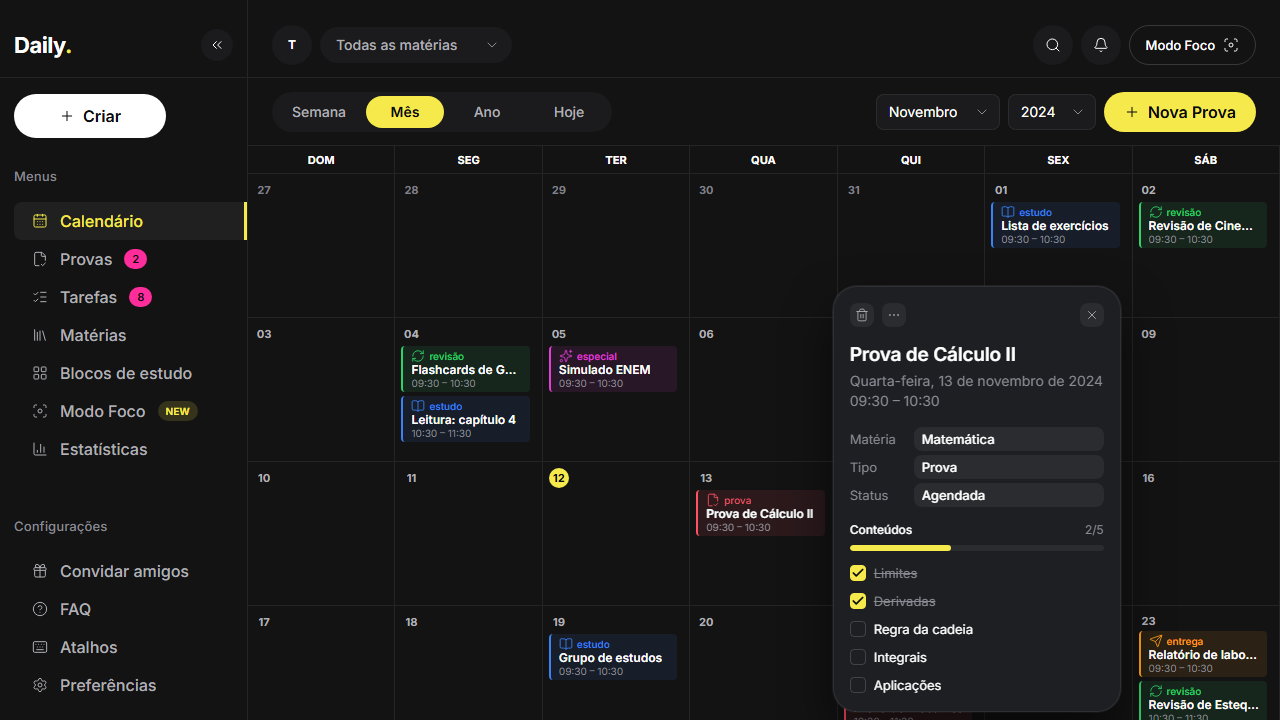
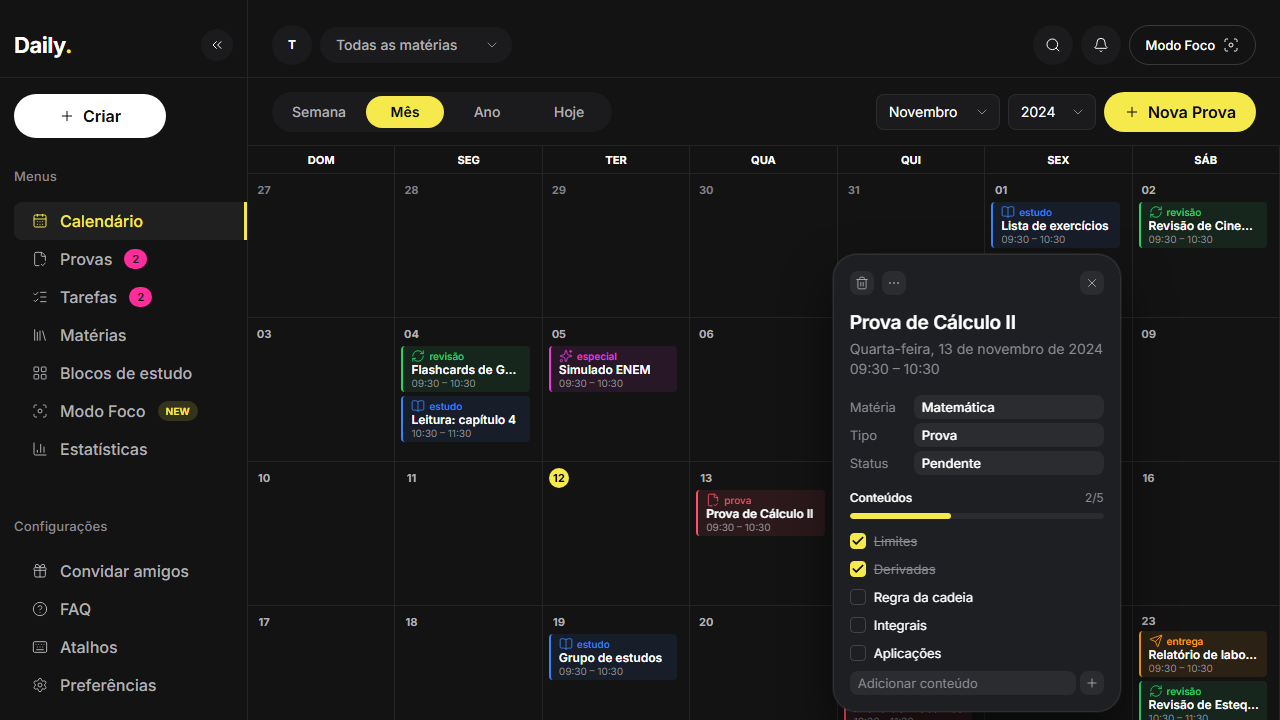
docs: data model, changelog, README, design screenshots and 02 report

Changed region(s): [[0.6562, 0.4278, 0.875, 0.9778], [0.6562, 0.3667, 0.7188, 0.3972], [0.8438, 0.3667, 0.875, 0.3972]]

diff --git a/docs/prompts/02-report.md b/docs/prompts/02-report.md
@@ -1,0 +1,81 @@
+# Relatório 02 — Provas, persistência e páginas
+
+Branch: `feat/exams-and-persistence`.
+
+## O que foi feito
+
+**Camada de dados**
+
+- `packages/shared`: schemas zod de `Subject`, `StudyEvent` (união discriminada: prova com conteúdos, bloco de estudo com `examId`, tarefa/entrega, revisão, especial) e `DataSnapshot` com integridade referencial (ids únicos, matéria e prova existentes).
+- `apps/web/src/lib/data`: interface `DataRepository`/`EntityRepository` (`list/get/create/update/delete`), adaptador `LocalStorageRepository` (chave `daily:v1`, envelope versionado, validação zod ao carregar e gravar, migração v0→v1, backup do último estado válido, cópia do dado corrompido, `StorageWriteError` quando a gravação falha) e `MemoryStorage` (fixture, testes e fallback se o `localStorage` for inacessível).
+- Store Zustand (`createDataStore`) sobre o repositório; nenhum componente toca o `localStorage`. Regras puras em `rules.ts`, `selectors.ts`, `task-filters.ts`, `countdown.ts`, `backup.ts`.
+- Primeiro acesso: empty state no calendário com “Criar prova” e “Carregar dados de exemplo” (os mocks agora só alimentam esse botão, a fixture e testes).
+- Aviso de dado corrompido (“Restaurar último backup” / “Começar do zero”) e de falha ao salvar.
+
+**Criar, editar, excluir**
+
+- Menu “Criar” (Prova, Tarefa, Bloco de estudo, Matéria); “+ Nova Prova” abre o formulário de prova.
+- Modal acessível (foco preso, Esc, labels, erros em pt-BR validados por zod) com matéria nova inline, data, início/término (tarefa tem só o prazo), status, notas, vínculo a prova (blocos) e editor de conteúdos (adicionar, renomear, remover, reordenar).
+- Popover: lixeira (excluir + “Desfazer” 6 s, sem confirmação), menu “…” com Editar e Duplicar, conteúdos persistentes e input para adicionar no fim.
+- Estados pendente/em andamento/concluído/cancelado; concluído e cancelado ficam esmaecidos (`opacity-done`) e com título riscado.
+- Clique em dia vazio (ou no número do dia, que virou botão) abre o formulário com a data; “+N mais” abre um popover com a lista completa do dia.
+
+**Páginas:** Provas (abas Próximas/Passadas, contagem regressiva, progresso, editar), Tarefas (criação rápida, filtros Hoje/7 dias/Atrasadas/Concluídas), Matérias (CRUD, paleta fixa, exclusão com escolha de destino), Blocos de estudo (semana agrupada por dia, criação rápida, vínculo opcional), Preferências (exportar/importar JSON com confirmação). Contadores da sidebar reais (provas abertas nos próximos 14 dias; tarefas pendentes ou atrasadas). Estatísticas, Modo Foco, Atalhos, FAQ e Convidar amigos seguem placeholders.
+
+## Decisões
+
+- **Zustand em vez de context + reducer.** O store é um objeto fora do React: pode ser criado sobre qualquer repositório (testei com `MemoryStorage` sem DOM), as ações são chamáveis fora de componentes (`deleteEventWithUndo`) e `useData(seletor)` re-renderiza só quem mudou — com context+reducer cada toggle de conteúdo re-renderizaria toda a árvore. Custo: 1 dependência pequena.
+- **Repositório síncrono.** `localStorage` é síncrono e a UI fica mais simples. Ao trocar por uma API, o contrato (`DataRepository`) terá de virar assíncrono — registrado como limitação.
+- **“Tarefa” é o tipo `entrega`.** Mantém os cinco tipos pedidos e evita uma entidade paralela; o chip continua “entrega” (não mudei o visual). A tarefa rápida tem prazo hoje às 23:59, o que faz os filtros funcionarem.
+- **`subjectId` anulável.** Tarefas e blocos rápidos nascem sem matéria.
+- **Desfazer por snapshot.** Excluir evento/matéria guarda o snapshot anterior e o toast chama `replaceAll`; serve também para a exclusão em cascata de matéria e persiste.
+- **Backup = último estado válido.** Nunca é sobrescrito por um dado corrompido; o dado ilegível vai para `daily:v1:corrupt`.
+- **A fixture usa armazenamento em memória** — nunca lê nem grava os dados reais — e todos os eventos são `pendente` para continuar idêntica à referência.
+- **`+N mais` abre popover** (pedido) em vez de expandir a célula.
+- O e2e do fluxo usa a data real de hoje; a prova é criada “hoje” para sempre aparecer no mês corrente.
+
+## Mudanças no modelo de dados
+
+Ver [`docs/data-model.md`](../data-model.md). Resumo: status `agendada/em-andamento/concluida` → `pendente/em-andamento/concluido/cancelado`; matérias ganham `color`; eventos ganham `notes`; conteúdos ganham `order`; só provas têm `contents`; blocos de estudo ganham `examId`; `subjectId` pode ser `null`. Formato salvo: envelope `daily:v1` (versão 1) com migração a partir da versão 0.
+
+## Tokens e visual
+
+Sem alterar valores existentes. Novos tokens: `--ds-color-danger`, paleta `--ds-color-subject-*` (8 cores), `--ds-opacity-done`, e dimensões de modal, menu, toast, textarea, swatch e página. Sidebar, topbar, grid e chips ficaram idênticos (a captura da fixture não mudou, exceto o novo campo “Adicionar conteúdo” no popover da prova).
+
+## Dependências adicionadas
+
+| Pacote    | Onde       | Justificativa                                                                                                                                  |
+| --------- | ---------- | ---------------------------------------------------------------------------------------------------------------------------------------------- |
+| `zustand` | `apps/web` | Store externo ao React, testável sem DOM e com seletores granulares (~1 kB).                                                                   |
+| `zod`     | `apps/web` | Os formulários validam com o mesmo zod do domínio; antes só `shared` o declarava e o pnpm é estrito. Sem versão nova (já estava no workspace). |
+
+## Testes
+
+- **Unitários (Vitest):** 51 novos no `web` (56 no total) e 2 no `shared` (5 no total): CRUD e persistência do `LocalStorageRepository`; migração v0→v1; versão futura; 5 formas de dado corrompido (original preservado, nada sobrescrito); restauração de backup; falha de gravação; progresso; contagem regressiva (hoje, amanhã, N dias, ontem, passado, virada de mês/ano); exclusão de matéria (sem eventos, sem resolução, apagar, mover, destino inválido); import/export (ida e volta + 8 arquivos inválidos); validação dos formulários em pt-BR; tarefa/bloco rápidos; filtros de tarefas; contadores.
+- **E2E (Playwright):** o de fumaça anterior; o fluxo _criar matéria → prova com 3 conteúdos → calendário → marcar 2 → recarregar → conferir persistência → excluir e desfazer (e recarregar de novo)_; e _dado corrompido não quebra o app_. Todos entram no CI.
+
+## Resultado dos comandos
+
+| Comando          | Resultado                                     |
+| ---------------- | --------------------------------------------- |
+| `pnpm lint`      | passa                                         |
+| `pnpm typecheck` | passa                                         |
+| `pnpm test`      | passa (web 56, shared 5)                      |
+| `pnpm build`     | passa                                         |
+| `pnpm e2e`       | passa (3 testes)                              |
+| CI no GitHub     | roda os mesmos passos; o resultado está no PR |
+
+## O que não foi feito
+
+- Backend, autenticação, notificações e PWA (fora do escopo).
+- Edição inline de um conteúdo já salvo no popover (renomear/remover/reordenar é feito pelo formulário de edição).
+- Visões Semana/Ano, busca, notificações e “Modo Foco” da topbar (continuam visuais).
+- Cor da matéria nos chips do calendário (os chips seguem a cor do tipo, como no design).
+
+## Pendências e riscos
+
+- **Teste manual em outros navegadores:** validei só no Chromium (Playwright). Os inputs `date`/`time` nativos variam por navegador.
+- O `Repository` terá de ser assíncrono quando houver API.
+- Se o armazenamento estourar a cota, o app mostra aviso e mantém os dados em memória; sem compressão nem limpeza automática do backup.
+- Um evento excluído por “Desfazer” volta à posição original apenas porque o snapshot é restaurado inteiro; edições feitas entre a exclusão e o “Desfazer” (dentro de 6 s) são perdidas.
+- Revisar `docs/design/design-system.md` para registrar os novos componentes (modal, menu, toast) — adicionei apenas os tokens.

diff --git a/README.md b/README.md
@@ -35,13 +35,13 @@ O projeto também é um estudo de engenharia de software: monorepo, TypeScript e
 
 O projeto está em desenvolvimento, organizado em marcos.
 
-| Marco                  | Escopo                                                        | Status    |
-| ---------------------- | ------------------------------------------------------------- | --------- |
-| **0. Fundação visual** | Monorepo, design system, calendário mensal com dados mockados | Concluído |
-| **1. Base**            | Login, CRUD de tarefas, matérias, back-end e deploy           | Planejado |
-| **2. Estudos**         | Provas com contagem regressiva, conteúdos, blocos de estudo   | Planejado |
-| **3. Segunda tela**    | Modo Foco, notificações, lembretes, PWA instalável            | Planejado |
-| **4. Acabamento**      | Documentação final, GIFs, post no LinkedIn                    | Planejado |
+| Marco                  | Escopo                                                        | Status       |
+| ---------------------- | ------------------------------------------------------------- | ------------ |
+| **0. Fundação visual** | Monorepo, design system, calendário mensal com dados mockados | Concluído    |
+| **1. Base**            | Dados locais, CRUD, páginas (feito); login, back-end e deploy | Em andamento |
+| **2. Estudos**         | Provas com contagem regressiva, conteúdos, blocos de estudo   | Em andamento |
+| **3. Segunda tela**    | Modo Foco, notificações, lembretes, PWA instalável            | Planejado    |
+| **4. Acabamento**      | Documentação final, GIFs, post no LinkedIn                    | Planejado    |
 
 ## Funcionalidades
 
@@ -55,18 +55,24 @@ O projeto está em desenvolvimento, organizado em marcos.
 - [x] Filtro do calendário por matéria
 - [x] Sidebar recolhível e interface em pt-BR
 - [x] Design system documentado, com tokens centralizados em CSS
+- [x] **Dados salvos no navegador** (`localStorage` versionado, com validação, migração e backup)
+- [x] **Criar, editar, duplicar e excluir** provas, tarefas, blocos de estudo e matérias, com "Desfazer" por 6 s
+- [x] Conteúdos da prova como mini tarefas (adicionar, renomear, remover, reordenar, marcar) com progresso
+- [x] Páginas **Provas** (contagem regressiva), **Tarefas** (filtros e criação rápida), **Matérias** (cores) e **Blocos de estudo** (semana)
+- [x] Estados do evento: pendente, em andamento, concluído e cancelado
+- [x] Clique num dia vazio cria evento; "+N mais" abre a lista completa do dia
+- [x] Exportar e importar dados em JSON (validado, com confirmação)
 
 ### Em planejamento
 
-- [ ] Persistência real (hoje o estado é local e some ao recarregar)
 - [ ] Autenticação (e-mail/senha ou Google)
-- [ ] Criação, edição e exclusão de provas, tarefas e blocos de estudo
+- [ ] Sincronização com back-end
 - [ ] Visões Semana e Ano
 - [ ] Modo Foco para segunda tela
 - [ ] Notificações e lembretes periódicos
 - [ ] PWA instalável (manifest e service worker)
 - [ ] Estatísticas de estudo
-- [ ] Atalhos de teclado e entrada rápida de tarefas
+- [ ] Atalhos de teclado
 
 ## Stack
 
@@ -169,32 +175,35 @@ Cada ciclo fica registrado em [`docs/prompts/`](docs/prompts/) (`NN-prompt.md` e
 
 ## Decisões técnicas
 
-| Decisão                      | Motivo                                            |
-| ---------------------------- | ------------------------------------------------- |
-| Monorepo com pnpm            | Compartilhar tipos e schemas entre front e API    |
-| TypeScript 5.9 fixado        | O `typescript-eslint` ainda não suporta o TS 7    |
-| Mocks relativos à data atual | O calendário nunca aparece vazio, em qualquer mês |
-| Tokens CSS obrigatórios      | Fidelidade visual e manutenção em um único lugar  |
-| PWA em vez de app nativo     | Um código só para "app de PC" e versão online     |
+| Decisão                      | Motivo                                                                                                                       |
+| ---------------------------- | ---------------------------------------------------------------------------------------------------------------------------- |
+| Monorepo com pnpm            | Compartilhar tipos e schemas entre front e API                                                                               |
+| TypeScript 5.9 fixado        | O `typescript-eslint` ainda não suporta o TS 7                                                                               |
+| Mocks relativos à data atual | O calendário nunca aparece vazio, em qualquer mês                                                                            |
+| Tokens CSS obrigatórios      | Fidelidade visual e manutenção em um único lugar                                                                             |
+| PWA em vez de app nativo     | Um código só para "app de PC" e versão online                                                                                |
+| `Repository` + Zustand       | A UI não conhece o `localStorage`; trocar por uma API é trocar o adaptador (veja [`docs/data-model.md`](docs/data-model.md)) |
 
 Decisões maiores serão registradas em `docs/adr/`.
 
 ## Limitações conhecidas
 
-- Os dados são mockados e o estado é local: checklist e exclusões somem ao recarregar
-- "+ Nova Prova", busca, notificações e o menu do popover são apenas visuais
-- Visões Semana e Ano são placeholders
+- Os dados vivem **só neste navegador** (sem conta nem sincronização): limpar os dados do site apaga tudo. Use Preferências → Exportar para guardar uma cópia
+- O `Repository` é síncrono (adequado ao `localStorage`); uma API exigirá torná-lo assíncrono
+- Busca, notificações e o botão "Modo Foco" da topbar ainda são apenas visuais
+- Visões Semana e Ano são placeholders; Estatísticas, Modo Foco, Atalhos, FAQ e Convidar amigos são páginas placeholder
+- Matérias sem cor própria no calendário: os chips usam a cor do **tipo** de evento, e a cor da matéria aparece nas listas
 - Os chips têm ~44 px em vez dos ~56 px da referência: ela equivale a 1440×1080, e em 900 px de altura só assim cabem 2 chips completos mais o "+N mais" (detalhes em [`design-system.md`](docs/design/design-system.md))
 - Em janelas baixas (por exemplo 1280×720) ou meses com 6 semanas, o grid rola verticalmente em vez de encolher as linhas
 - Ainda não há manifest nem service worker (PWA)
 - A comparação com a referência é lado a lado, a olho (sem diff de pixels automatizado)
-- A fixture `?fixture=reference` só existe em desenvolvimento (`pnpm dev`)
+- A fixture `?fixture=reference` só existe em desenvolvimento (`pnpm dev`) e usa dados em memória, sem tocar nos seus dados
 
 ## Roadmap
 
 - [x] **Marco 0:** monorepo, design system e calendário mensal
-- [ ] **Marco 1:** autenticação, API, banco de dados, CRUD e deploy
-- [ ] **Marco 2:** provas com contagem regressiva, conteúdos e blocos de estudo
+- [ ] **Marco 1:** autenticação, API, banco de dados e deploy (CRUD local já feito)
+- [x] **Marco 2 (parte local):** provas com contagem regressiva, conteúdos e blocos de estudo
 - [ ] **Marco 3:** Modo Foco, notificações e PWA instalável
 - [ ] **Marco 4:** acabamento, documentação final e divulgação
 

diff --git a/docs/prompts/02-prompt.md b/docs/prompts/02-prompt.md
@@ -1,0 +1,68 @@
+# Contexto
+
+Projeto Daily (monorepo pnpm, apps/web em React + TS + Vite + Tailwind). Os Prompts 01 e 01.1 entregaram o calendário mensal fiel à referência, com dados mockados. Leia CLAUDE.md, docs/design/design-system.md, docs/prompts/01-report.md e docs/prompts/01.1-report.md antes de começar. Trabalhe numa branch `feat/exams-and-persistence`.
+
+# Objetivo deste prompt (02)
+
+Transformar o Daily em um app usável no dia a dia: dados persistidos no navegador, criação/edição/exclusão de provas, conteúdos (mini tarefas), tarefas, blocos de estudo e matérias, mais contagem regressiva de provas. Continua sem backend.
+
+# Passo 1 — Camada de dados
+
+1. Em packages/shared, defina (zod) as entidades: Matéria (id, nome, cor), Evento base (id, tipo, título, início, fim, matériaId, status, notas) e as especializações: Prova (com lista de Conteúdos: id, título, concluído, ordem), Tarefa, Bloco de estudo. Tipos de evento mantidos: prova, estudo, entrega, revisão, especial.
+2. Crie em apps/web/src/lib/data uma interface `Repository` (list/get/create/update/delete por entidade) e um adaptador `LocalStorageRepository` com: chave versionada (`daily:v1`), validação com zod ao carregar, migração simples por versão e fallback seguro se o dado estiver corrompido (não quebrar o app; avisar o usuário e oferecer restaurar a partir de backup).
+3. Estado da UI com Zustand (ou React context + reducer, se preferir justificar) consumindo o Repository. Nenhum componente acessa localStorage diretamente.
+4. Primeiro acesso: app vazio com estado inicial amigável (empty states), e um botão "Carregar dados de exemplo" que usa os mocks atuais. Os mocks continuam existindo só para esse botão, a fixture `?fixture=reference` e os testes.
+5. Backup: em Preferências, "Exportar dados (JSON)" e "Importar dados (JSON)", com validação zod e confirmação antes de sobrescrever.
+
+# Passo 2 — Criar, editar e excluir
+
+1. Botão "Criar" (sidebar) abre um menu: Prova, Tarefa, Bloco de estudo, Matéria. O botão "+ Nova Prova" abre direto o formulário de prova.
+2. Formulários em modal acessível (foco preso, Esc fecha, labels, mensagens de erro em pt-BR, validação com zod). Campos: título, matéria (com opção de criar nova), data, horário de início e fim, status, notas. Prova: lista de conteúdos editável no próprio formulário (adicionar, renomear, remover, reordenar).
+3. Popover do evento: o menu "..." ganha Editar e Duplicar; a lixeira exclui. Exclusão com toast "Desfazer" por 6 segundos, sem diálogo de confirmação.
+4. Conteúdos da prova no popover: marcar/desmarcar persiste; adicionar conteúdo inline (input no fim da lista); barra de progresso atualiza.
+5. Estados de evento: pendente, em andamento, concluído, cancelado. Chip de evento concluído fica visualmente esmaecido, com título riscado. Use tokens para isso.
+6. Clicar num dia vazio do calendário abre o formulário com a data pré-preenchida.
+
+# Passo 3 — Páginas (substituem os placeholders)
+
+1. Provas: lista de provas futuras ordenadas por data, cada uma com matéria, data, contagem regressiva ("em 3 dias", "amanhã", "hoje às 14h", "há 2 dias" para passadas), progresso dos conteúdos e atalho para editar. Abas: Próximas | Passadas.
+2. Tarefas: lista simples com filtros (Hoje, Próximos 7 dias, Atrasadas, Concluídas), checkbox para concluir, criação rápida no topo (digitar título + Enter).
+3. Matérias: CRUD de matérias com seletor de cor (paleta fixa nos tokens). Excluir matéria com eventos associados exige escolher: apagar os eventos ou movê-los para outra matéria.
+4. Blocos de estudo: lista da semana atual agrupada por dia, com criação rápida e vínculo opcional a uma prova/matéria.
+5. Os contadores da sidebar (Provas, Tarefas) passam a refletir os dados reais: provas nos próximos 14 dias e tarefas pendentes/atrasadas.
+6. Estatísticas, Modo Foco e Atalhos continuam placeholders.
+
+# Passo 4 — Calendário com dados reais
+
+1. O calendário lê do Repository. O filtro por matéria da topbar continua funcionando.
+2. Mantenha o comportamento de overflow com "+N mais"; ao clicar em "+N mais", abra um popover com a lista completa do dia.
+3. Não altere tokens nem o visual existente, exceto os estados novos (concluído/cancelado). Qualquer novo componente segue o design system e usa tokens.
+
+# Passo 5 — Testes
+
+1. Unitários (Vitest): LocalStorageRepository (CRUD, versão, dado corrompido, migração), cálculo de progresso, formatação da contagem regressiva (hoje, amanhã, N dias, passado), regra de exclusão de matéria com eventos, import/export com validação.
+2. E2E (Playwright), mantendo o de fumaça atual e adicionando um fluxo: criar matéria → criar prova com 3 conteúdos → ver no calendário → marcar 2 conteúdos → recarregar a página e confirmar que tudo persistiu → excluir e desfazer.
+3. Rode tudo no CI.
+
+# Regras
+
+- Nenhum valor visual hardcoded; tudo em tokens.css.
+- Componentes pequenos e tipados; lógica de dados fora dos componentes.
+- Acessibilidade: foco visível, aria-labels, navegação por teclado nos modais e menus, toasts com role="status".
+- Commits em Conventional Commits, um por etapa lógica.
+- Não adicione dependências sem justificar no relatório.
+- Não implemente backend, autenticação, notificações nem PWA neste prompt.
+
+# Critérios de aceite
+
+- [ ] Dados persistem após recarregar a página
+- [ ] Criar, editar, duplicar, excluir e desfazer funcionam para todas as entidades
+- [ ] Páginas Provas, Tarefas, Matérias e Blocos de estudo funcionais, com empty states
+- [ ] Contagem regressiva correta em casos de borda (hoje, amanhã, passado)
+- [ ] Exportar e importar JSON funcionam e rejeitam arquivos inválidos
+- [ ] Dado corrompido no storage não quebra o app
+- [ ] lint, typecheck, test, build e e2e passam, inclusive no CI
+
+# Entrega
+
+Escreva docs/prompts/02-report.md com: o que foi feito, decisões (inclusive a escolha do gerenciador de estado), mudanças no modelo de dados, dependências adicionadas, o que não foi feito e pendências. Atualize o README (status do Marco, funcionalidades e limitações), o CHANGELOG e crie docs/data-model.md com as entidades e relações. Salve este prompt em docs/prompts/02-prompt.md. Ao final, abra um PR descrevendo as mudanças.

diff --git a/CHANGELOG.md b/CHANGELOG.md
@@ -1,0 +1,40 @@
+# Changelog
+
+Formato baseado em [Keep a Changelog](https://keepachangelog.com/pt-BR/1.1.0/). O projeto ainda não
+tem versões publicadas.
+
+## [Não lançado]
+
+### Adicionado (Prompt 02 — provas e persistência)
+
+- Dados persistidos no navegador (`localStorage`, chave `daily:v1`) atrás de uma interface
+  `Repository`, com validação zod, migração por versão, backup automático e recuperação de dado
+  corrompido.
+- Modelo de domínio em `packages/shared`: matérias com cor, eventos com status e notas, provas com
+  conteúdos ordenados, tarefas e blocos de estudo (vínculo opcional a uma prova).
+- Criar, editar, duplicar e excluir (com “Desfazer” por 6 s) provas, tarefas, blocos de estudo e
+  matérias; menu “Criar” na sidebar; formulários em modal acessível.
+- Conteúdos da prova: marcar, adicionar inline no popover e editar/reordenar no formulário.
+- Páginas Provas (contagem regressiva, abas Próximas/Passadas), Tarefas (filtros e criação rápida),
+  Matérias (paleta de cores e exclusão com destino dos eventos) e Blocos de estudo (semana).
+- Calendário: clique em dia vazio cria evento; “+N mais” abre a lista do dia; chips de eventos
+  concluídos/cancelados esmaecidos com título riscado.
+- Contadores da sidebar reais (provas nos próximos 14 dias; tarefas pendentes/atrasadas).
+- Preferências: exportar e importar JSON com validação e confirmação.
+- Estado vazio com “Carregar dados de exemplo”.
+- Testes: 51 novos unitários no `web`, 56 no total (repositório, migração, corrupção, contagem
+  regressiva, regras de matéria, backup, formulários, filtros) e e2e do fluxo matéria → prova →
+  persistência → desfazer.
+- Dependências: `zustand` e `zod` no `apps/web`.
+
+### Alterado
+
+- Status de evento passam a ser `pendente`, `em-andamento`, `concluido`, `cancelado`.
+- Tipo `StudyEvent` virou união discriminada (apenas provas têm `contents`).
+- “+N mais” deixou de expandir a célula e passou a abrir um popover.
+
+## Anteriores
+
+- **01.1** — Ajuste fino de fidelidade visual, chips de 3 linhas, “Hoje” no segmentado, captura e
+  comparação visual com Playwright, e2e de fumaça, contraste WCAG AA.
+- **01** — Monorepo, design system por tokens, calendário mensal com dados mockados.

diff --git a/CLAUDE.md b/CLAUDE.md
@@ -4,7 +4,7 @@ Organizador de estudos (PWA) para estudantes, pensado para ficar aberto o dia to
 tela do PC. Projeto de portfólio: TypeScript estrito, código limpo, documentação e testes bem
 escolhidos. Idioma da UI: **pt-BR**. Viewport-alvo: desktop 1440×900 (aceitável a partir de 1280 px).
 
-Estado atual: só front-end com dados mockados (`apps/web/src/mocks`). `apps/api` é apenas um README.
+Estado atual: só front-end; os dados ficam no `localStorage` (`daily:v1`) atrás de um `Repository`. Mocks (`apps/web/src/mocks`) só servem ao botão “Carregar dados de exemplo”, à fixture e aos testes. `apps/api` é apenas um README.
 
 ## Stack
 
@@ -46,9 +46,17 @@ A cada prompt de trabalho, salve o prompt em `docs/prompts/NN-prompt.md` e gere 
 `docs/prompts/NN-report.md` (o que foi feito, decisões, valores estimados, diferenças restantes,
 como rodar, resultado de lint/typecheck/test/build e pendências). `NN` é sequencial (01, 02…).
 
+## Dados
+
+- Entidades e relações: `docs/data-model.md`; schemas zod em `packages/shared`.
+- UI → `useData` (Zustand, `lib/data/app-store.ts`) → `DataRepository` → `LocalStorageRepository`. **Componentes nunca acessam `localStorage`.**
+- Regras de domínio ficam em funções puras (`lib/data/rules.ts`, `selectors.ts`, `task-filters.ts`, `countdown.ts`), com teste.
+- Mudou o formato salvo? Suba `DATA_VERSION`, escreva a migração em `envelope.ts` e atualize o histórico em `docs/data-model.md`.
+- Excluir algo = `deleteEventWithUndo` / `deleteSubjectWithUndo` (toast “Desfazer”, 6 s).
+
 ## Fixture visual
 
-`/calendario?fixture=reference` (só em `pnpm dev`) carrega novembro/2024 com densidade da referência e data fixa; é usada por `visual:capture` e pelo e2e.
+`/calendario?fixture=reference` (só em `pnpm dev`) carrega novembro/2024 com densidade da referência e data fixa, em memória (não toca nos dados reais); é usada por `visual:capture` e pelo e2e de fumaça.
 
 ## Referências
 
